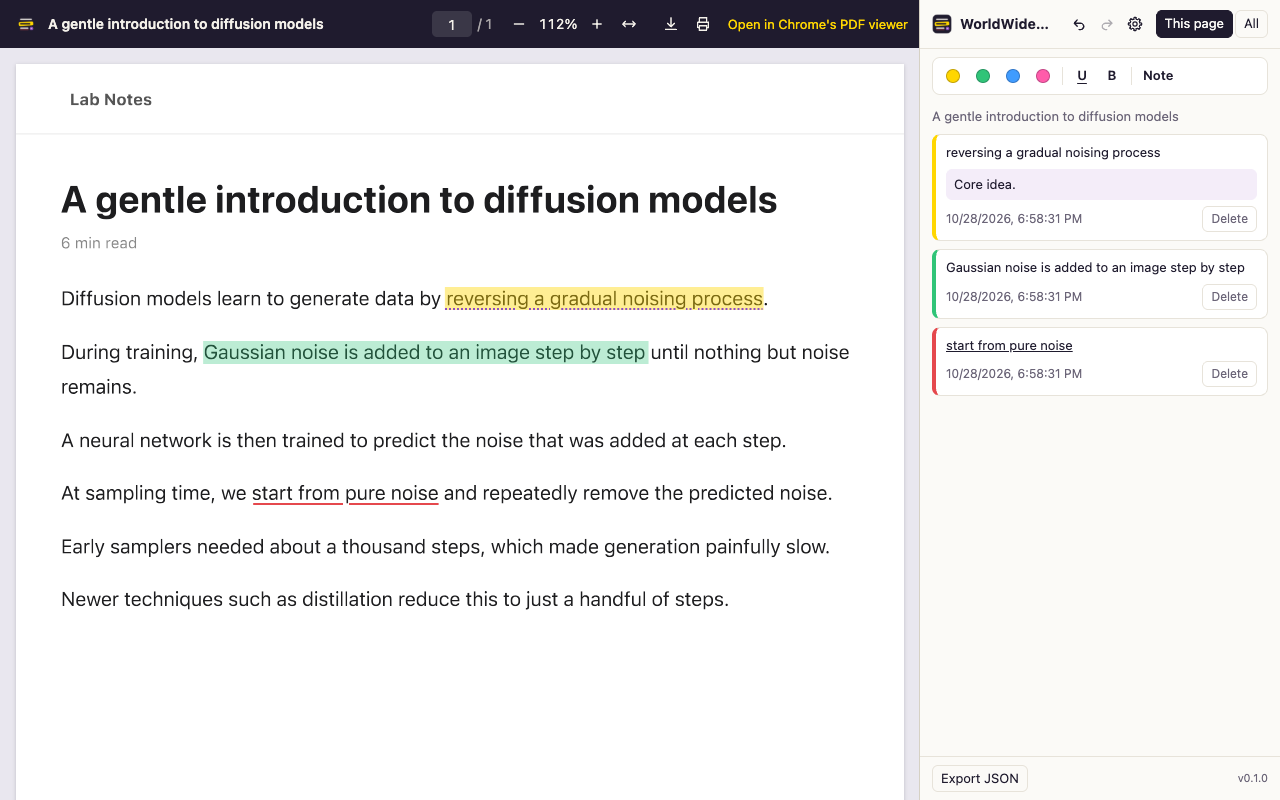
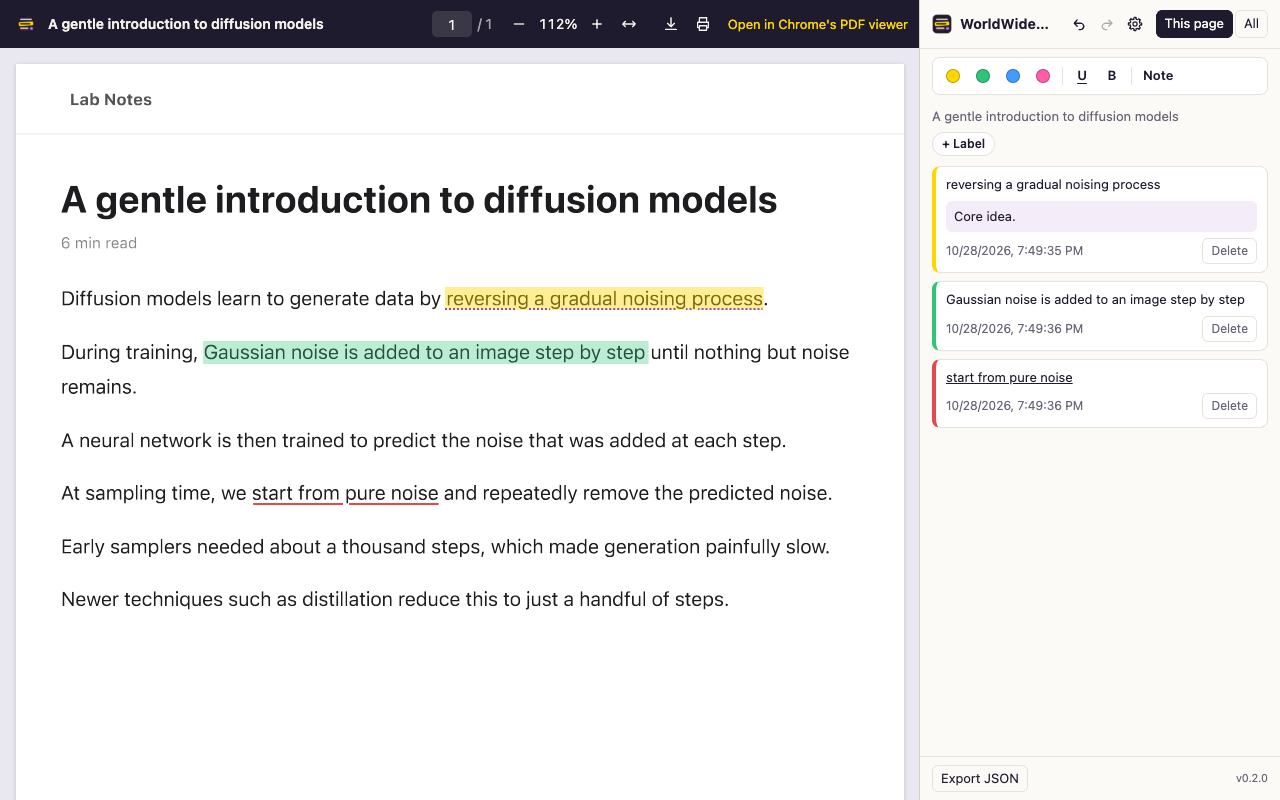
chore(release): 0.2.0 store assets, changelog and README; PDF badge
- Screenshot 4 (en/ko/global): annotated pages organized with labels,
  search and filters, made from the real extension on original demo
  pages (a short reading-notes page added). Labels are created through
  the side panel's messages.
- All tab: PDF items get a "PDF" badge (a PDF and its web page can share
  a title).
- CHANGELOG: 0.2.0 is the first public beta; 0.1.0 was replaced before
  publication. README lists labels and search.

Changed region(s): [[0.7188, 0.1562, 1.0, 0.5312]]

diff --git a/assets/store/demo/ko-notes.html b/assets/store/demo/ko-notes.html
@@ -1,0 +1,6 @@
+<!doctype html><html lang="ko"><head><meta charset="utf-8"><title>읽기 노트: attention 짧게 정리</title><style>body{margin:0;background:#fff;color:#1d1d1f;font:18px/1.75 -apple-system,BlinkMacSystemFont,"Segoe UI","Apple SD Gothic Neo","Noto Sans KR",sans-serif}header{padding:18px 48px;border-bottom:1px solid #eee;font-weight:700;color:#555;font-size:15px}main{max-width:720px;margin:0 auto;padding:28px 40px}h1{font-size:34px;line-height:1.25;margin:8px 0 6px}.meta{color:#888;font-size:14px;margin-bottom:22px}.note{background:#fff7e0;border:1px solid #f2d27a;border-radius:8px;padding:8px 14px;font-size:14px;color:#7a5b00;margin-bottom:18px}p{margin:0 0 16px}</style></head><body><header>Lab Notes</header><main><h1>읽기 노트: attention 짧게 정리</h1><div class="meta">3분 분량</div>
+<p>Attention은 입력의 모든 토큰을 다른 모든 토큰과 비교해 가중치를 매긴다.</p>
+<p>각 토큰은 query, key, value로 투영된다.</p>
+<p>query와 key를 비교해 점수를 구하고, 그 점수로 value를 섞는다.</p>
+<p>여러 head가 병렬로 동작하며, 각각 다른 종류의 관계에 집중할 수 있다.</p>
+</main></body></html>

diff --git a/assets/store/demo/en-notes.html b/assets/store/demo/en-notes.html
@@ -1,0 +1,6 @@
+<!doctype html><html lang="en"><head><meta charset="utf-8"><title>Reading notes: attention, briefly</title><style>body{margin:0;background:#fff;color:#1d1d1f;font:18px/1.75 -apple-system,BlinkMacSystemFont,"Segoe UI","Apple SD Gothic Neo","Noto Sans KR",sans-serif}header{padding:18px 48px;border-bottom:1px solid #eee;font-weight:700;color:#555;font-size:15px}main{max-width:720px;margin:0 auto;padding:28px 40px}h1{font-size:34px;line-height:1.25;margin:8px 0 6px}.meta{color:#888;font-size:14px;margin-bottom:22px}.note{background:#fff7e0;border:1px solid #f2d27a;border-radius:8px;padding:8px 14px;font-size:14px;color:#7a5b00;margin-bottom:18px}p{margin:0 0 16px}</style></head><body><header>Lab Notes</header><main><h1>Reading notes: attention, briefly</h1><div class="meta">3 min read</div>
+<p>Attention lets a model weigh every token against every other token in the input.</p>
+<p>Each token is projected into a query, a key and a value.</p>
+<p>Scores come from comparing queries with keys, and the values are mixed by those scores.</p>
+<p>Several heads run in parallel, each free to focus on a different kind of relation.</p>
+</main></body></html>

diff --git a/src/sidepanel/library.ts b/src/sidepanel/library.ts
@@ -166,6 +166,13 @@ function pageItem(p: PageRecord, labels: Label[]): HTMLLIElement {
   const summary = document.createElement('span');
   summary.textContent = t('pageSummary', liveAnnotations(p).length, new Date(p.updatedAt).toLocaleDateString(uiLanguage()));
   meta.append(summary);
+  if (isPdfPageKey(p.pageKey)) {
+    // A PDF and its web page can share a title.
+    const pdf = document.createElement('span');
+    pdf.className = 'badge pdf';
+    pdf.textContent = t('filterPdf');
+    meta.append(pdf);
+  }
   if (pageMatchesFilter(p, { kind: 'attention' })) {
     const badge = document.createElement('span');
     badge.className = 'badge needs-review';

diff --git a/src/sidepanel/sidepanel.css b/src/sidepanel/sidepanel.css
@@ -169,3 +169,4 @@ main { flex: 1; padding: 8px 12px; }
 .item .icon-btn, .item .tag-x { border-color: transparent; padding: 0 4px; }
 .item .icon-btn:hover { border-color: var(--line); }
 .item .label-menu input[type="checkbox"] { margin: 0; }
+.badge.pdf { color: var(--muted); }

diff --git a/README.md b/README.md
@@ -39,6 +39,7 @@ Design rule: **a wrong anchor is worse than a missing one.** When in doubt, WWM 
 - Side panel: annotations on the current page with their status, a "this site changed" summary, and all annotated pages
 - Keyboard shortcuts (`Alt+Shift+H` highlight, `Alt+Shift+N` note, `Alt+Shift+U` underline) and right-click menu
 - PDFs (e.g. arXiv papers): open them in the built-in WWM PDF viewer to annotate — with working links, zoom, page navigation, table of contents, download and print; PDFs you have annotated reopen there automatically
+- Labels for annotated pages (several per page, your own colors and order), search across titles, addresses, quotes and notes, and filters for notes, items needing attention and PDFs
 - JSON export
 - English / Korean UI (follows your browser language)
 - No DOM mutation: rendered with the [CSS Custom Highlight API](https://developer.mozilla.org/en-US/docs/Web/API/CSS_Custom_Highlight_API), so pages and SPAs are not broken
@@ -95,7 +96,7 @@ scripts/          Build, icons, store assets, packaging
 - [x] Deterministic re-anchoring (position → exact → fuzzy) with review & "not found" states
 - [x] English / Korean
 - [x] PDF support (bundled pdf.js viewer)
-- [ ] Full-text search across all annotations
+- [x] Labels, search and filters for annotated pages
 - [ ] Markdown export for Obsidian / Notion, with links back to the exact passage
 - [ ] Version history & diff view: see how the text around your note changed
 - [ ] Optional sync across devices via your own Google Drive (opt-in, no WWM server)
@@ -119,6 +120,7 @@ Copyright © 2026 Seunguk Kang. **All rights reserved.** The source is public fo
 - 확실하지 않으면 **확인 필요**로 표시해 사용자에게 묻고, 문장이 삭제되면 **찾지 못한 주석**으로 보관해 메모를 잃지 않습니다.
 - 모든 데이터는 브라우저에만 저장됩니다. 계정·서버·분석 도구가 없습니다 → [개인정보처리방침](PRIVACY.md#개인정보처리방침-한국어)
 - arXiv 논문 같은 PDF도 WWM PDF 뷰어로 열어 주석을 달 수 있습니다(링크·확대/축소·페이지 이동·목차·다운로드·인쇄 지원). 주석을 단 PDF는 다음에 열 때 자동으로 WWM 뷰어로 열립니다.
+- 주석 단 페이지를 라벨(여러 개, 색·순서 지정)로 정리하고, 제목·주소·인용문·메모를 검색할 수 있습니다.
 - UI는 브라우저 언어에 따라 한국어/영어로 표시됩니다.
 
 **설치(개발자 모드)**: 위 *Install* 의 명령으로 빌드한 뒤 `chrome://extensions` → 개발자 모드 → "압축해제된 확장 프로그램을 로드합니다" → `dist/` 선택.

diff --git a/CHANGELOG.md b/CHANGELOG.md
@@ -4,6 +4,10 @@ Format: [Keep a Changelog](https://keepachangelog.com/en/1.1.0/) · Versioning: 
 
 ## [Unreleased]
 
+## [0.2.0] - 2026-10-28
+
+First public beta (Chrome Web Store, unlisted).
+
 ### Added
 - Labels for annotated pages: create them from the current page or the All tab, put several on a page, and filter the All tab by label chips. Rename, recolor, reorder and delete labels (delete can be undone).
 - Search in the All tab across page titles, addresses, quotes and notes, plus built-in filters: with notes, needs attention, PDF.
@@ -17,7 +21,7 @@ Format: [Keep a Changelog](https://keepachangelog.com/en/1.1.0/) · Versioning: 
 
 ## [0.1.0] - 2026-10-28
 
-First beta release (Chrome Web Store, unlisted).
+Submitted to the Chrome Web Store, then replaced by 0.2.0 before it was published.
 
 ### Added
 - PDF support: a bundled pdf.js viewer with the same highlights, notes and re-anchoring. The viewer keeps the basics of Chrome's: links (references and other internal links jump to their target and Back returns, web links open in a new tab, mailto: opens your mail app), zoom (buttons, Ctrl/⌘ +/−/0, Ctrl+wheel; annotations stay attached), page number and go-to-page, table of contents, download and print. Chrome's PDF viewer shows an "Open in WWM" prompt; PDFs you have annotated reopen in WWM automatically.

diff --git a/assets/store/README.md b/assets/store/README.md
@@ -6,12 +6,13 @@ Generated from the real extension on the demo article in `demo/` (no third-party
 | File | Size | Use |
 | --- | --- | --- |
 | `icon-128.png` | 128×128 (96×96 artwork + 16px padding) | Store icon |
-| `global/screenshot-1..3.png` | 1280×800 | Screenshots for all languages (English UI) |
-| `en/`, `ko/` `screenshot-1..3.png` | 1280×800 | Localized screenshots |
+| `global/screenshot-1..4.png` | 1280×800 | Screenshots for all languages (English UI) |
+| `en/`, `ko/` `screenshot-1..4.png` | 1280×800 | Localized screenshots |
 | `en/`, `ko/` `promo-small.png` | 440×280 | Small promo tile |
 
 1. A site update: annotations restored, followed, flagged for review or kept as not found; popover and side panel.
 2. Selection toolbar with its drag handle; side panel style bar and toolbar settings.
 3. A PDF in the WWM viewer with annotations.
+4. Annotated pages organized with labels, search and filters (side panel, All tab).
 
 Check the [image requirements](https://developer.chrome.com/docs/webstore/images) again before submitting.
